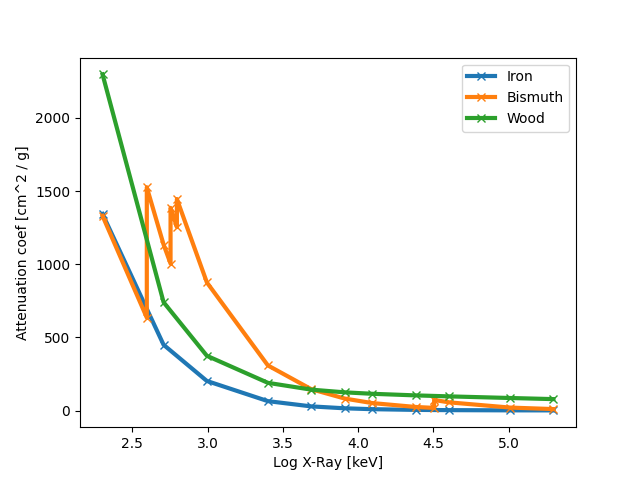
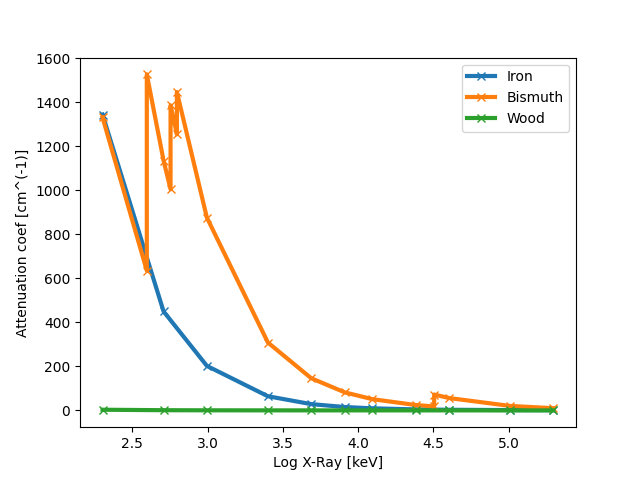
Updates y axis label

diff --git a/code/atttenuation_coef.py b/code/atttenuation_coef.py
@@ -70,7 +70,7 @@ plt.plot(
     np.log([x for x in x_combined if x >= 10 and x <= 200]), 
     [diff for x,diff in zip(x_combined, diff_yinterp) if x >= 10 and x <= 200], '-x', linewidth=3)
 plt.xlabel("Log X-Ray [keV]")
-plt.ylabel("Attenuation coef [cm^2 / g]")
+plt.ylabel("Attenuation coef [cm^(-1)]")
 plt.legend(["Absolute difference between bismuth and iron"])
 
 # plt.fill_betweenx([min(y_val_iron),max(y_val_iron)],np.log(10),np.log(200),alpha=0.5)
@@ -109,7 +109,7 @@ plt.plot(np.log(x_f(x_val_iron)), diff_f(x_val_iron, y_val_iron), '-x', linewidt
 plt.plot(np.log(x_f(x_val_bismuth)), diff_f(x_val_bismuth, y_val_bismuth), '-x', linewidth=3)
 plt.plot(np.log(x_f(x_val_wood)), diff_f(x_val_wood, y_val_wood), '-x', linewidth=3)
 plt.xlabel("Log X-Ray [keV]")
-plt.ylabel("Attenuation coef [cm^2 / g]")
+plt.ylabel("Attenuation coef [cm^(-1)]")
 
 #plt.fill_betweenx([min(y_val_iron),max(y_val_iron)],np.log(10),np.log(200),alpha=0.5)
 plt.legend(["Iron", "Bismuth", "Wood"])
